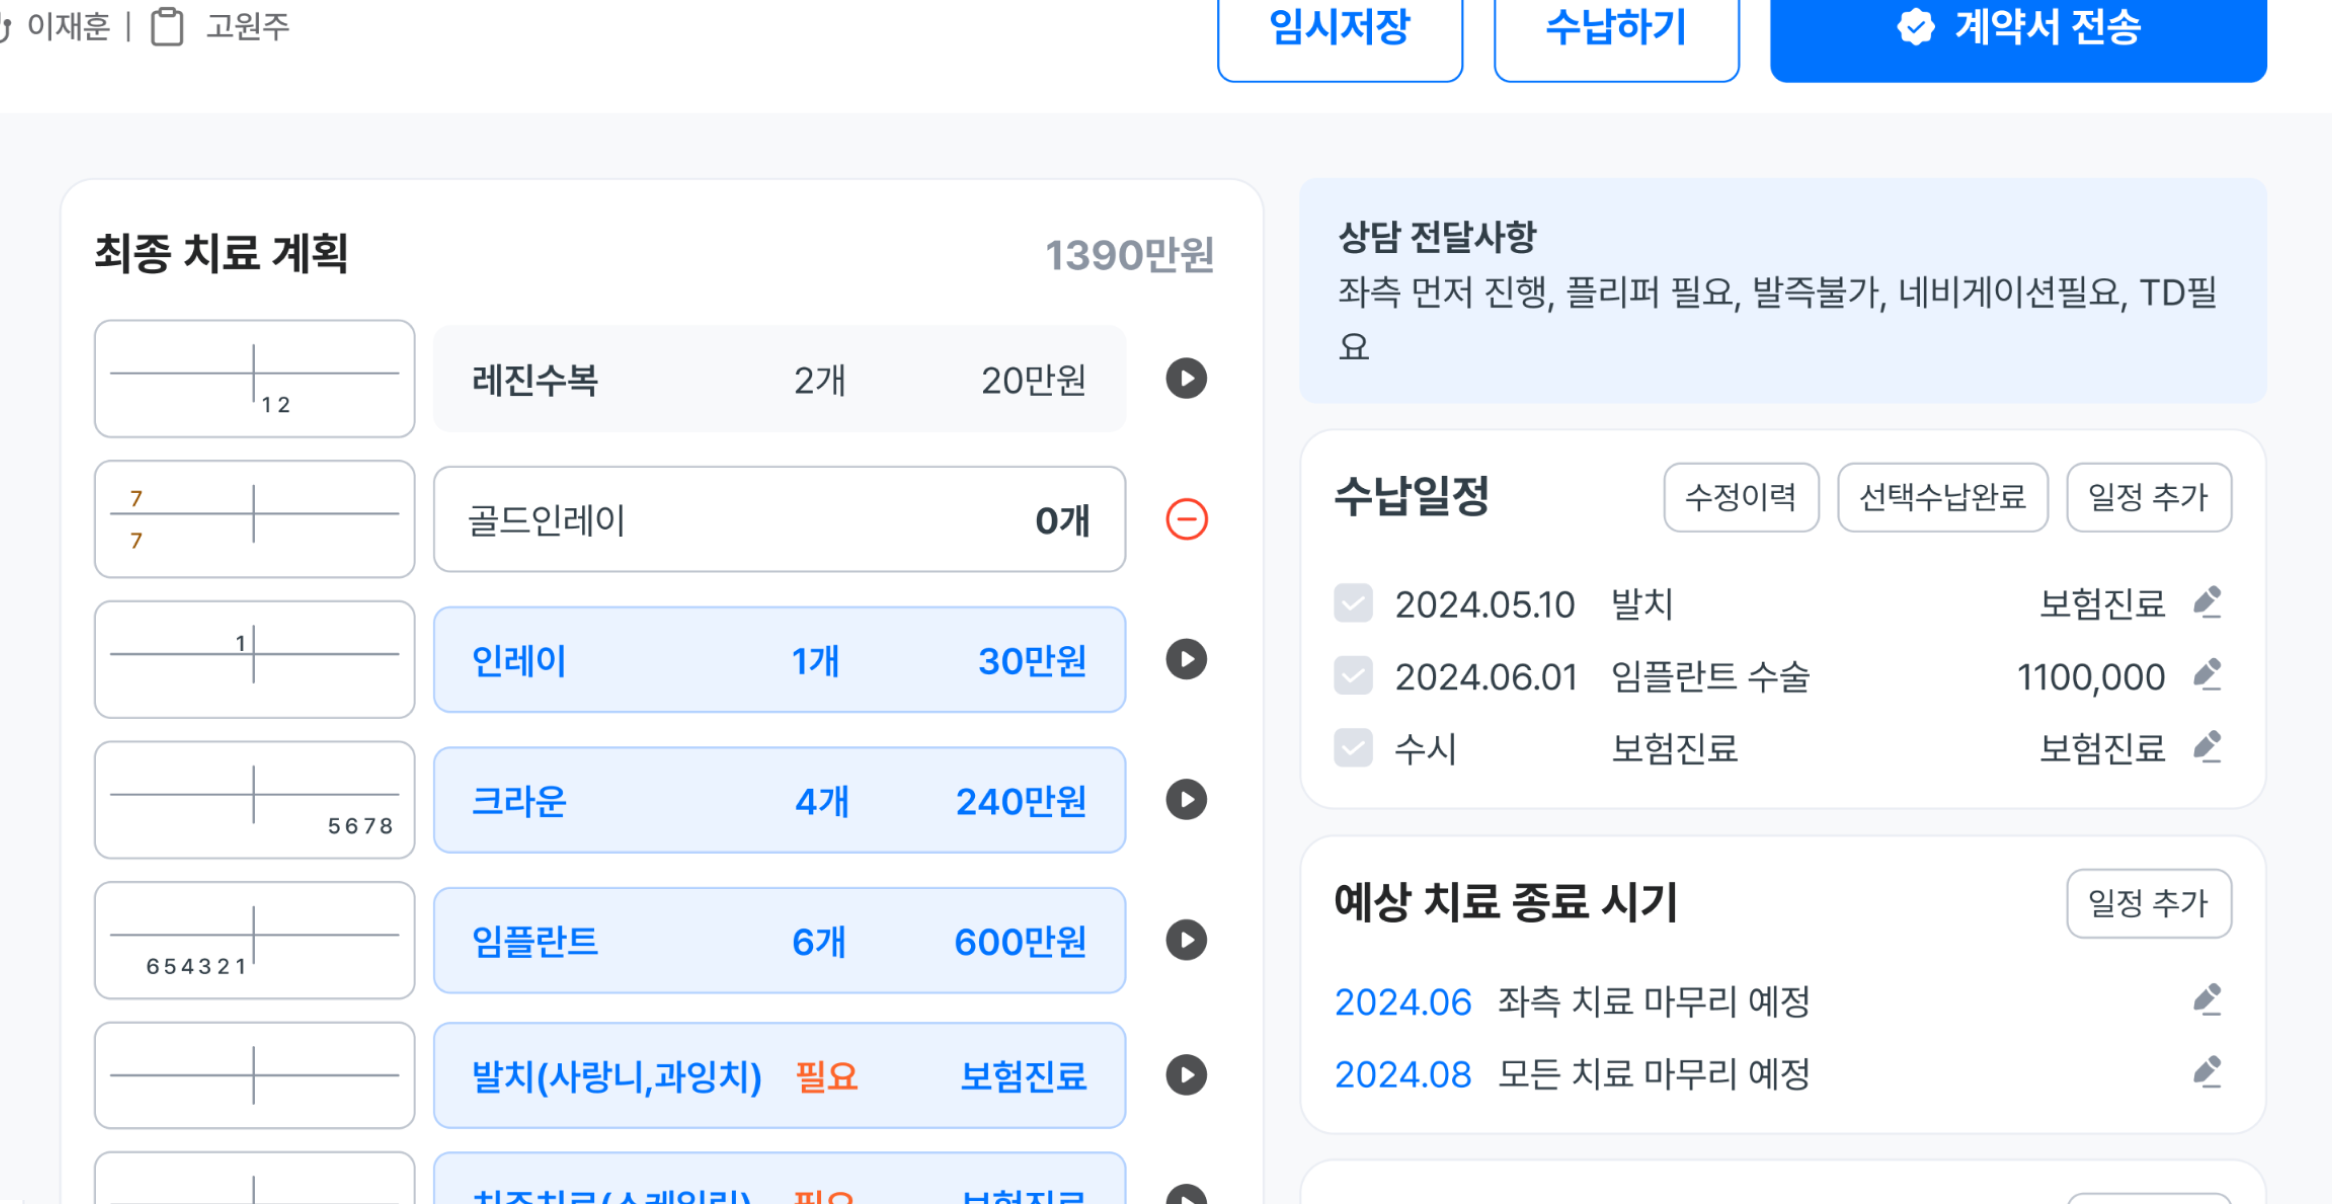
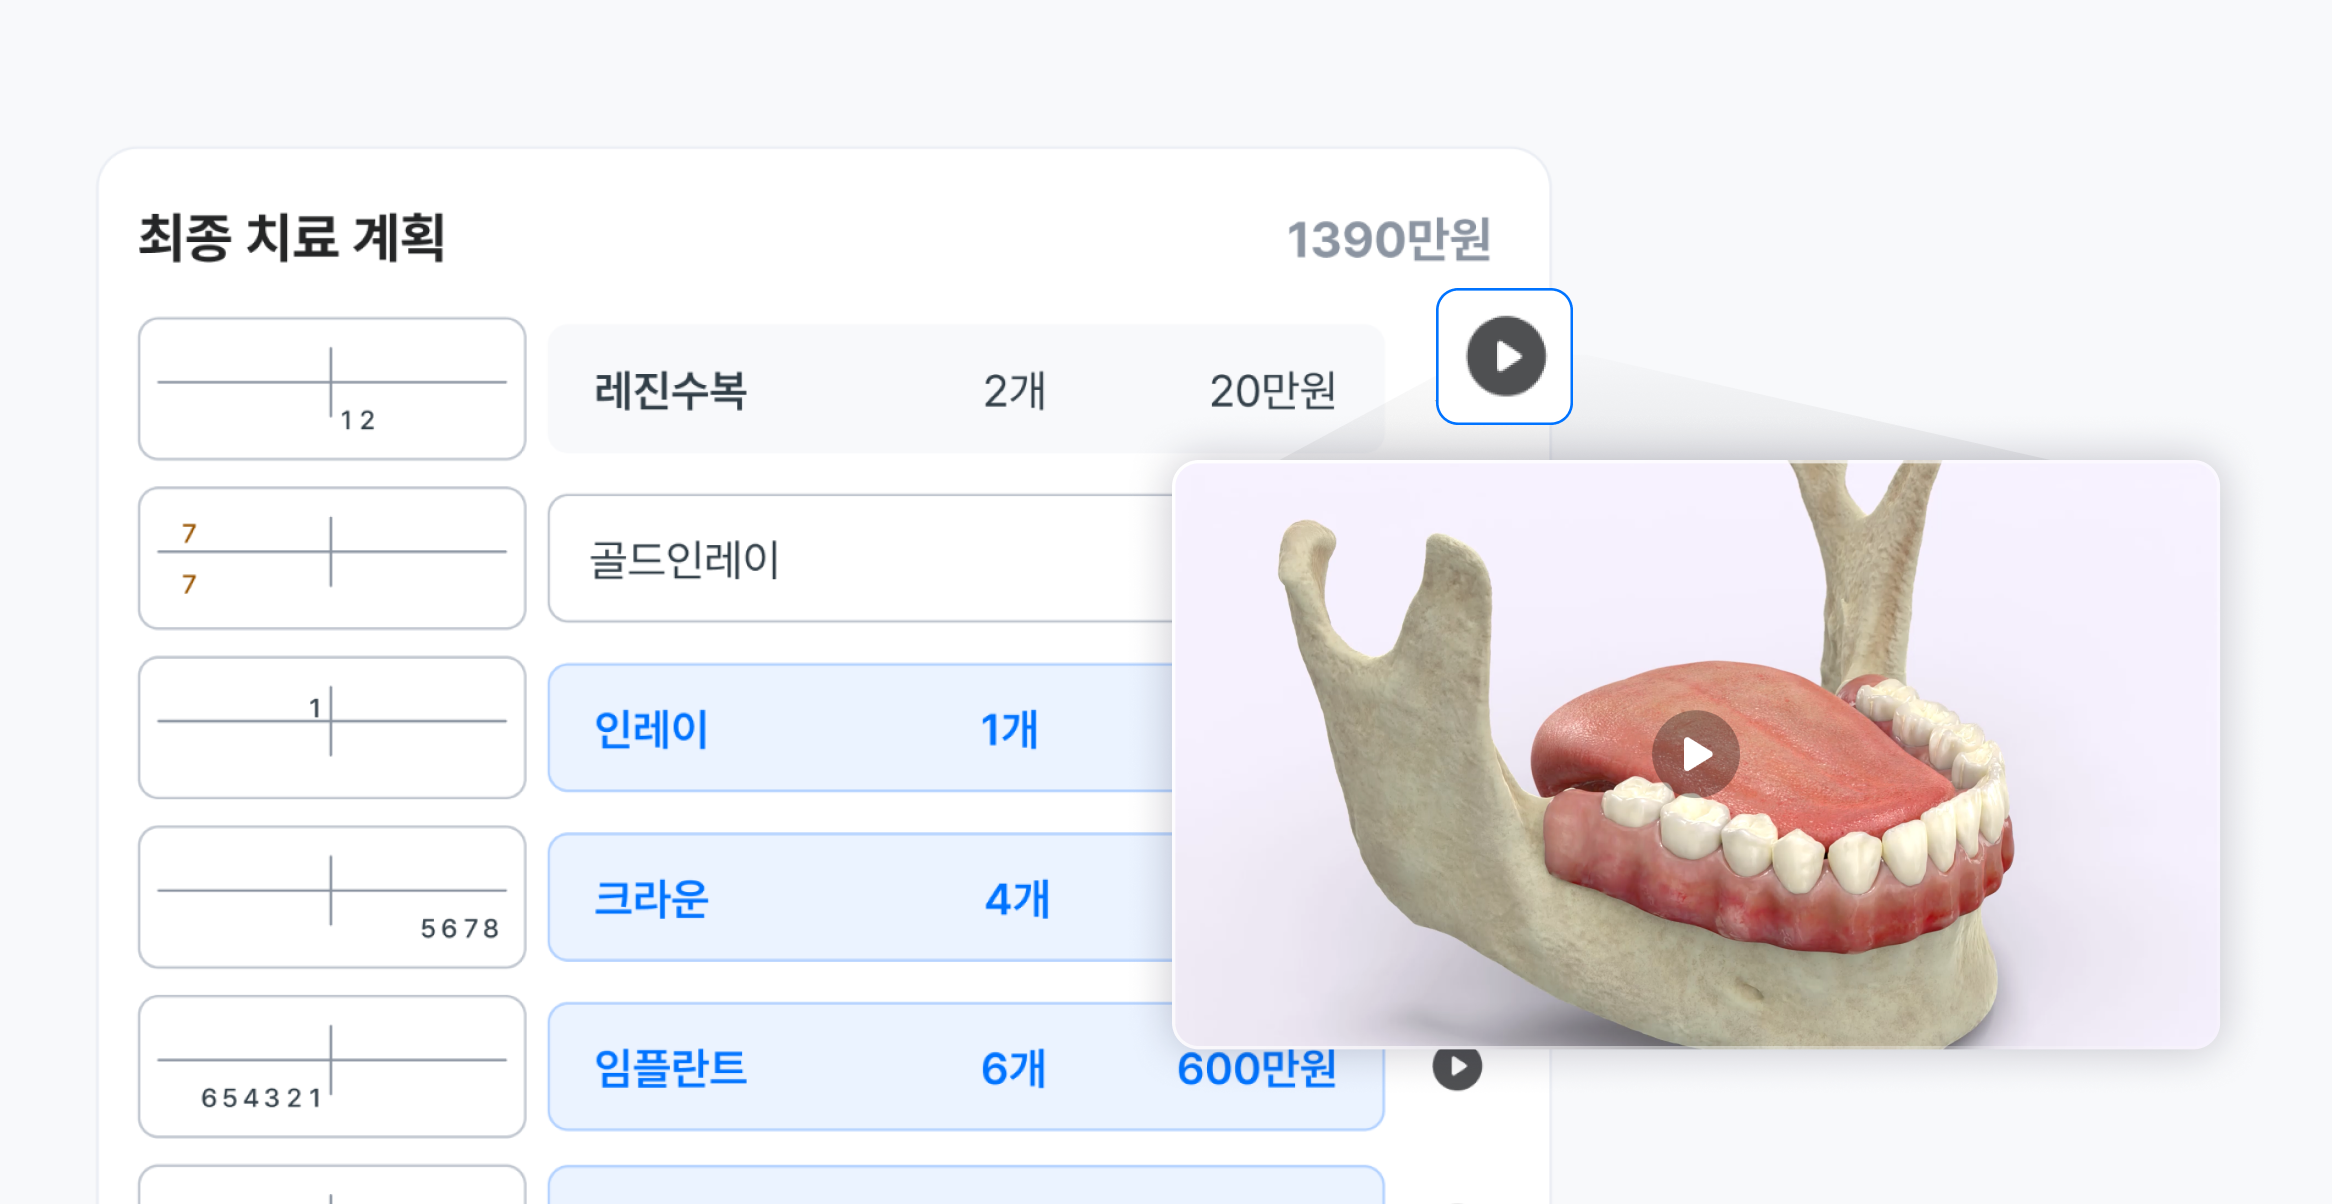
design: UI 수정

diff --git a/src/components/FeaturesSection.tsx b/src/components/FeaturesSection.tsx
@@ -59,39 +59,38 @@ const FeaturesSection = () => {
   const connectFeatures: Feature[] = [
     {
       title: "📋 대기 ZERO 전자문진",
-      description: "방문전 부터 환자-병원 연결이 즉시 시작됩니다.\n노쇼, 대기시간은 줄고 매출은 상승! ",
+      description:
+        "방문전 부터 환자-병원 연결이 즉시 시작됩니다.\n노쇼, 대기시간은 줄고 매출은 상승! ",
       image: "/lovable-uploads/homeden_connect_1.png",
     },
     {
       title: "🔬 AI 1차 스크리닝",
-      description: "분석은 AI가, 설득은 원장님이!\n신뢰도 2배 ",
-      arrowUp: true,
-      description2: " → 고가 치료 전환이 한층 쉬워집니다.",
+      description:
+        "분석은 AI가, 설득은 원장님이!\n신뢰도는 2배 UP, 고가 치료전환이 한층 쉬워집니다.",
       image: "/lovable-uploads/homeden_connect_2.png",
     },
     {
       title: "💻 디지털화 된 진단, 상담",
-      description: "진단 및 상담 과정을 시각화 하여 전달과정 오류 없이 \n 환자 동의률",
-      arrowUp: true,
-      description2: ", 스텝 업무는 줄어듭니다.",
+      description:
+        "진단 및 상담과정을 시각화하여 오류 없는 전달과정.\n직원 업무는 줄이고, 환자 동의율은 높이세요!",
       image: "/lovable-uploads/homeden_connect_3.png",
     },
     {
       title: "💬 진료중 환자와의 소통 강화",
-      description: "각종 서류 온라인 발급, 상담내용기반 수납 및 일정 자동 안내 \n 환자 만족도UP, 데스크 업무 감소",
+      description:
+        "각종 서류 온라인 발송, 상담내용 기반 수납/일정 자동 안내.\n환자 만족도는 올라가고 데스크 업무는 줄어듭니다.",
       image: "/lovable-uploads/homeden_connect_4.png",
     },
     {
       title: "📊 AI 기반 개인 맞춤형 CRM",
-      description: "환자별 맞춤형 문자전송으로 충성환자를 만드세요.\n고객 충성도·상담 동의율",
-      arrowUp: true,
+      description:
+        "고객 충성도 올리는 스마트한 CRM.\nAI가 생성하는 환자별 맞춤 문자로 충성고객을 만들어보세요.",
       image: "/lovable-uploads/homeden_connect_5.png",
     },
     {
       title: "🔄 AI 구환 부활 프로젝트",
-      description: "잊힌 환자도 AI가 다시 호출! 구환 유치율 ",
-      arrowUp: true,
-      description2: ", 마케팅 비용 0원\n어려운 구환 관리가 쉬워지고, 구환유치율이 향상됩니다.",
+      description:
+        "구환 이벤트 추천 및 생성, 잊힌 환자도 AI가 다시 호출!\n마케팅 비용 0원으로 구환 유치율 ⬆ ",
       image: "/lovable-uploads/homeden_connect_6.png",
     },
   ];
@@ -135,7 +134,10 @@ const FeaturesSection = () => {
                   <h4 className="font-bold text-homeden-navy mb-2">
                     {feature.title}
                   </h4>
-                  <p className="text-sm text-gray-600 leading-relaxed" style={{ whiteSpace: "pre-line" }}>
+                  <p
+                    className="text-sm text-gray-600 leading-relaxed"
+                    style={{ whiteSpace: "pre-line" }}
+                  >
                     {feature.description}
                   </p>
                 </CardContent>
@@ -151,8 +153,9 @@ const FeaturesSection = () => {
               HomeDen Connect 기능
             </h3>
             <p className="text-lg text-gray-600">
-            환자 유치와 매출 성장을 동시에 실현하는 올‑인‑원 플랫폼
-              <br />인력은 줄이고 소통은 강화되는 디지털 진료 환경을 만들어보세요
+              환자 유치와 매출 성장을 동시에 실현하는 올‑인‑원 플랫폼
+              <br />
+              인력은 줄이고 소통은 강화되는 디지털 진료 환경을 만들어보세요
             </p>
           </div>
 
@@ -174,10 +177,17 @@ const FeaturesSection = () => {
                   <h4 className="font-bold text-homeden-navy mb-2">
                     {feature.title}
                   </h4>
-                  <p className="text-sm text-gray-600 leading-relaxed" style={{ whiteSpace: "pre-line" }}>
+                  <p
+                    className="text-sm text-gray-600 leading-relaxed"
+                    style={{ whiteSpace: "pre-line" }}
+                  >
                     {feature.description}
-                    {feature.arrowUp && <FaArrowUp className="inline-block text-green-500 mx-1" />}
-                    {feature.arrowDown && <FaArrowDown className="inline-block text-red-500 mx-1" />}
+                    {feature.arrowUp && (
+                      <FaArrowUp className="inline-block text-green-500 mx-1" />
+                    )}
+                    {feature.arrowDown && (
+                      <FaArrowDown className="inline-block text-red-500 mx-1" />
+                    )}
                     {feature.description2}
                   </p>
                 </CardContent>
